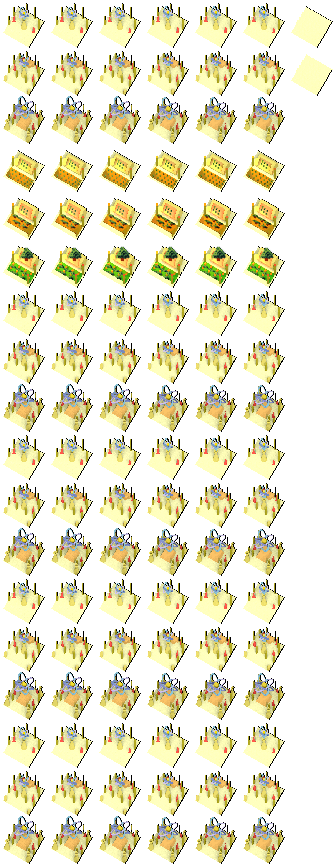
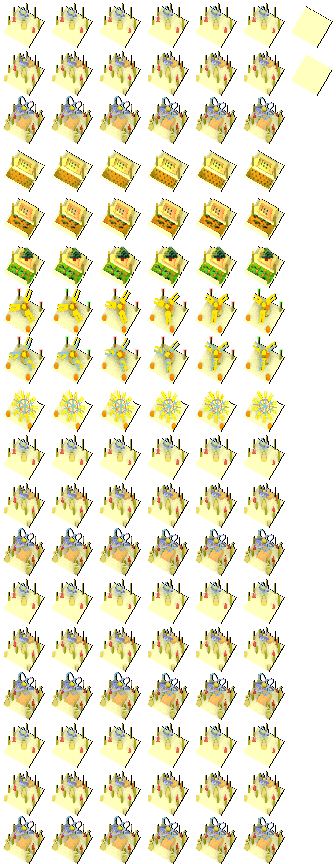
visual update and debug rendering lines

Changed region(s): [[0.4464, 0.3125, 0.8631, 0.5], [0.0, 0.3125, 0.2679, 0.5], [0.2976, 0.3125, 0.4167, 0.5]]

diff --git a/README.md b/README.md
@@ -137,13 +137,24 @@ Thus, When resolving or encountering events, random events always come before re
     -   [x] 转场按钮
     -   [x] 回合按钮
 
--   [ ] 事件生成
+-   [x] 事件生成
 -   [x] 事件概率
+-   [ ] Stars
 
 ## Known Issues
 -   [x] Love2d on Windows misbehaving
+Sub-pixel rendering issue
+
 -   [x] Shifting error
+-   [x] Mouse + keyboard
+-   [x] hovering is triggering other side
+-   [x] Restart Game does not restart PlayState
+issue fixed: current turn confusion
+
+starting a new game multiple times will cause consusion to turns, reason being event 'next turn' has been duplicated when a new game has been started. And when event is dispatched, multiple duplicants will be called.
+
 -   [ ] Still need work on only allowing one facility to be hovered at a time
+-   [ ] Sometimes event resolve does not have indication
 
 
 ## Special Thanks To:
